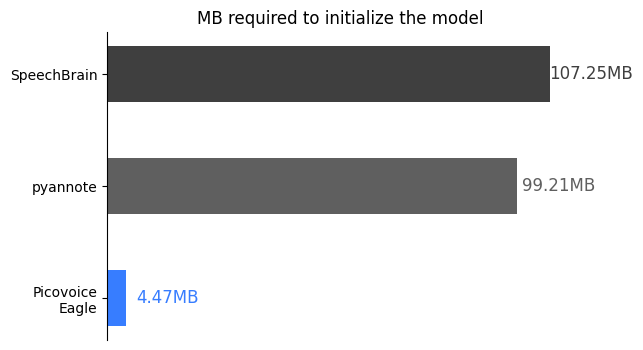
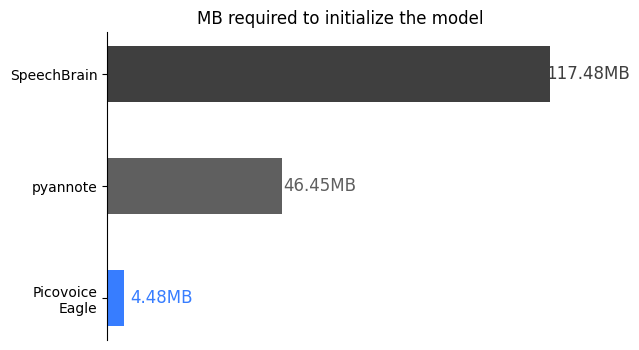
data

diff --git a/README.md b/README.md
@@ -119,7 +119,7 @@ RAM, and NVMe storage.
 |     Engine      | Model Size |
 |:---------------:|:----------:|
 | Picovoice Eagle |   4.47MB   |
-|   SpeechBrain   |   99.21MB  |
-|    pyannote     |  107.25MB  |
+|   SpeechBrain   |  117.48MB  |
+|    pyannote     |  46.45MB   |
 
 ![](./results/plots/mem.png)
